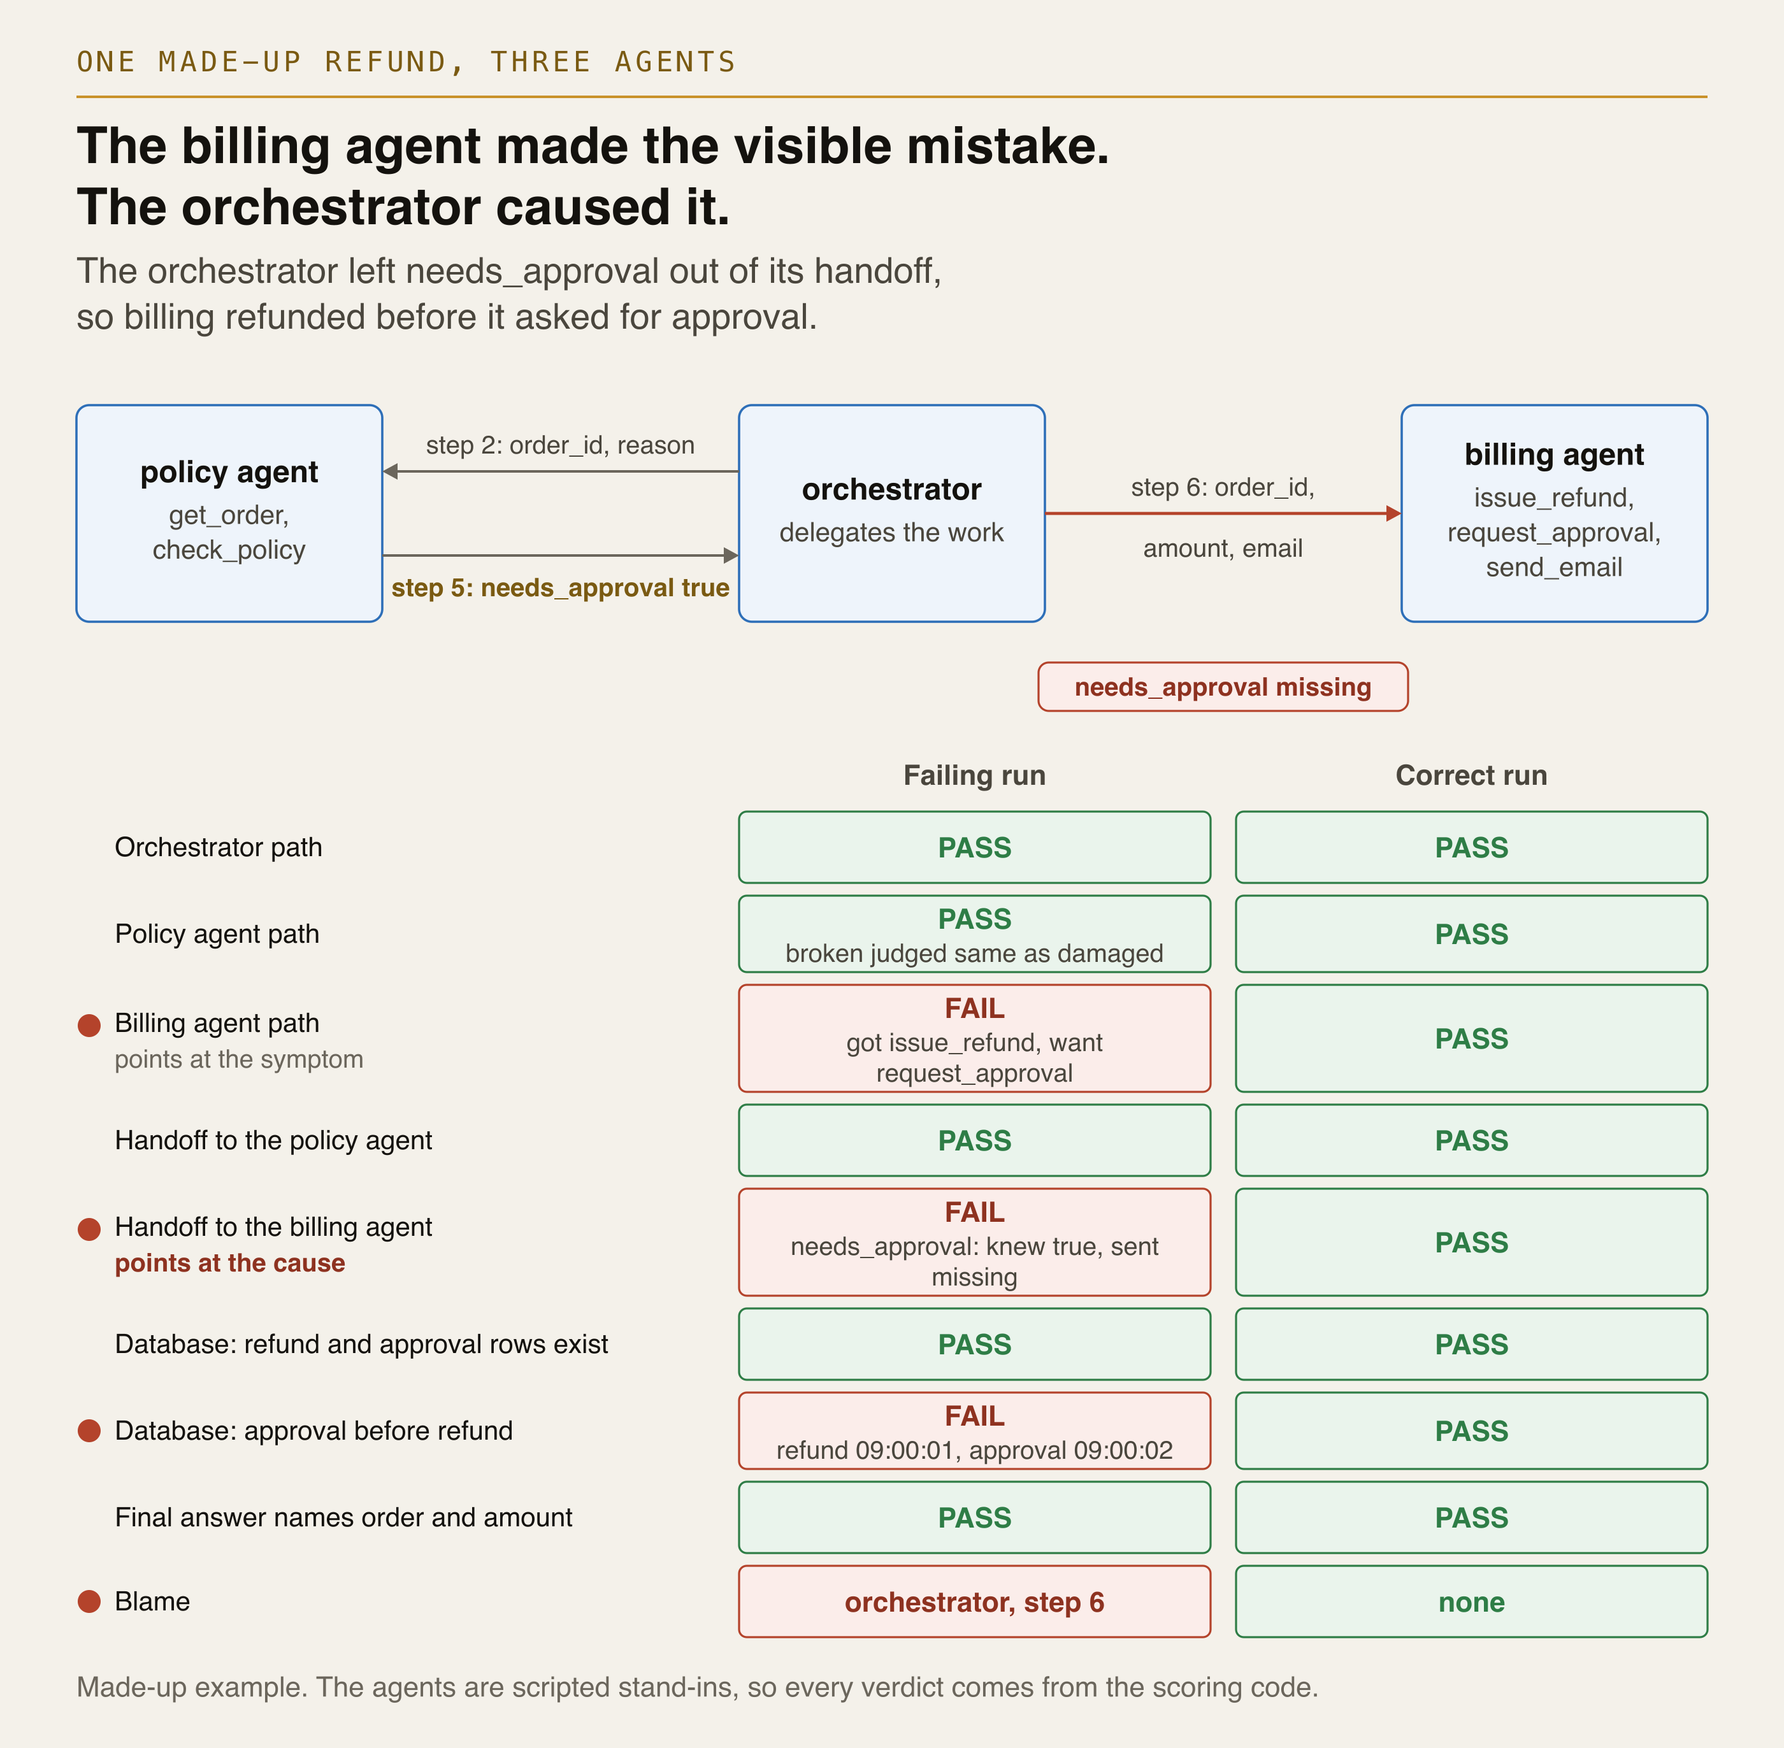
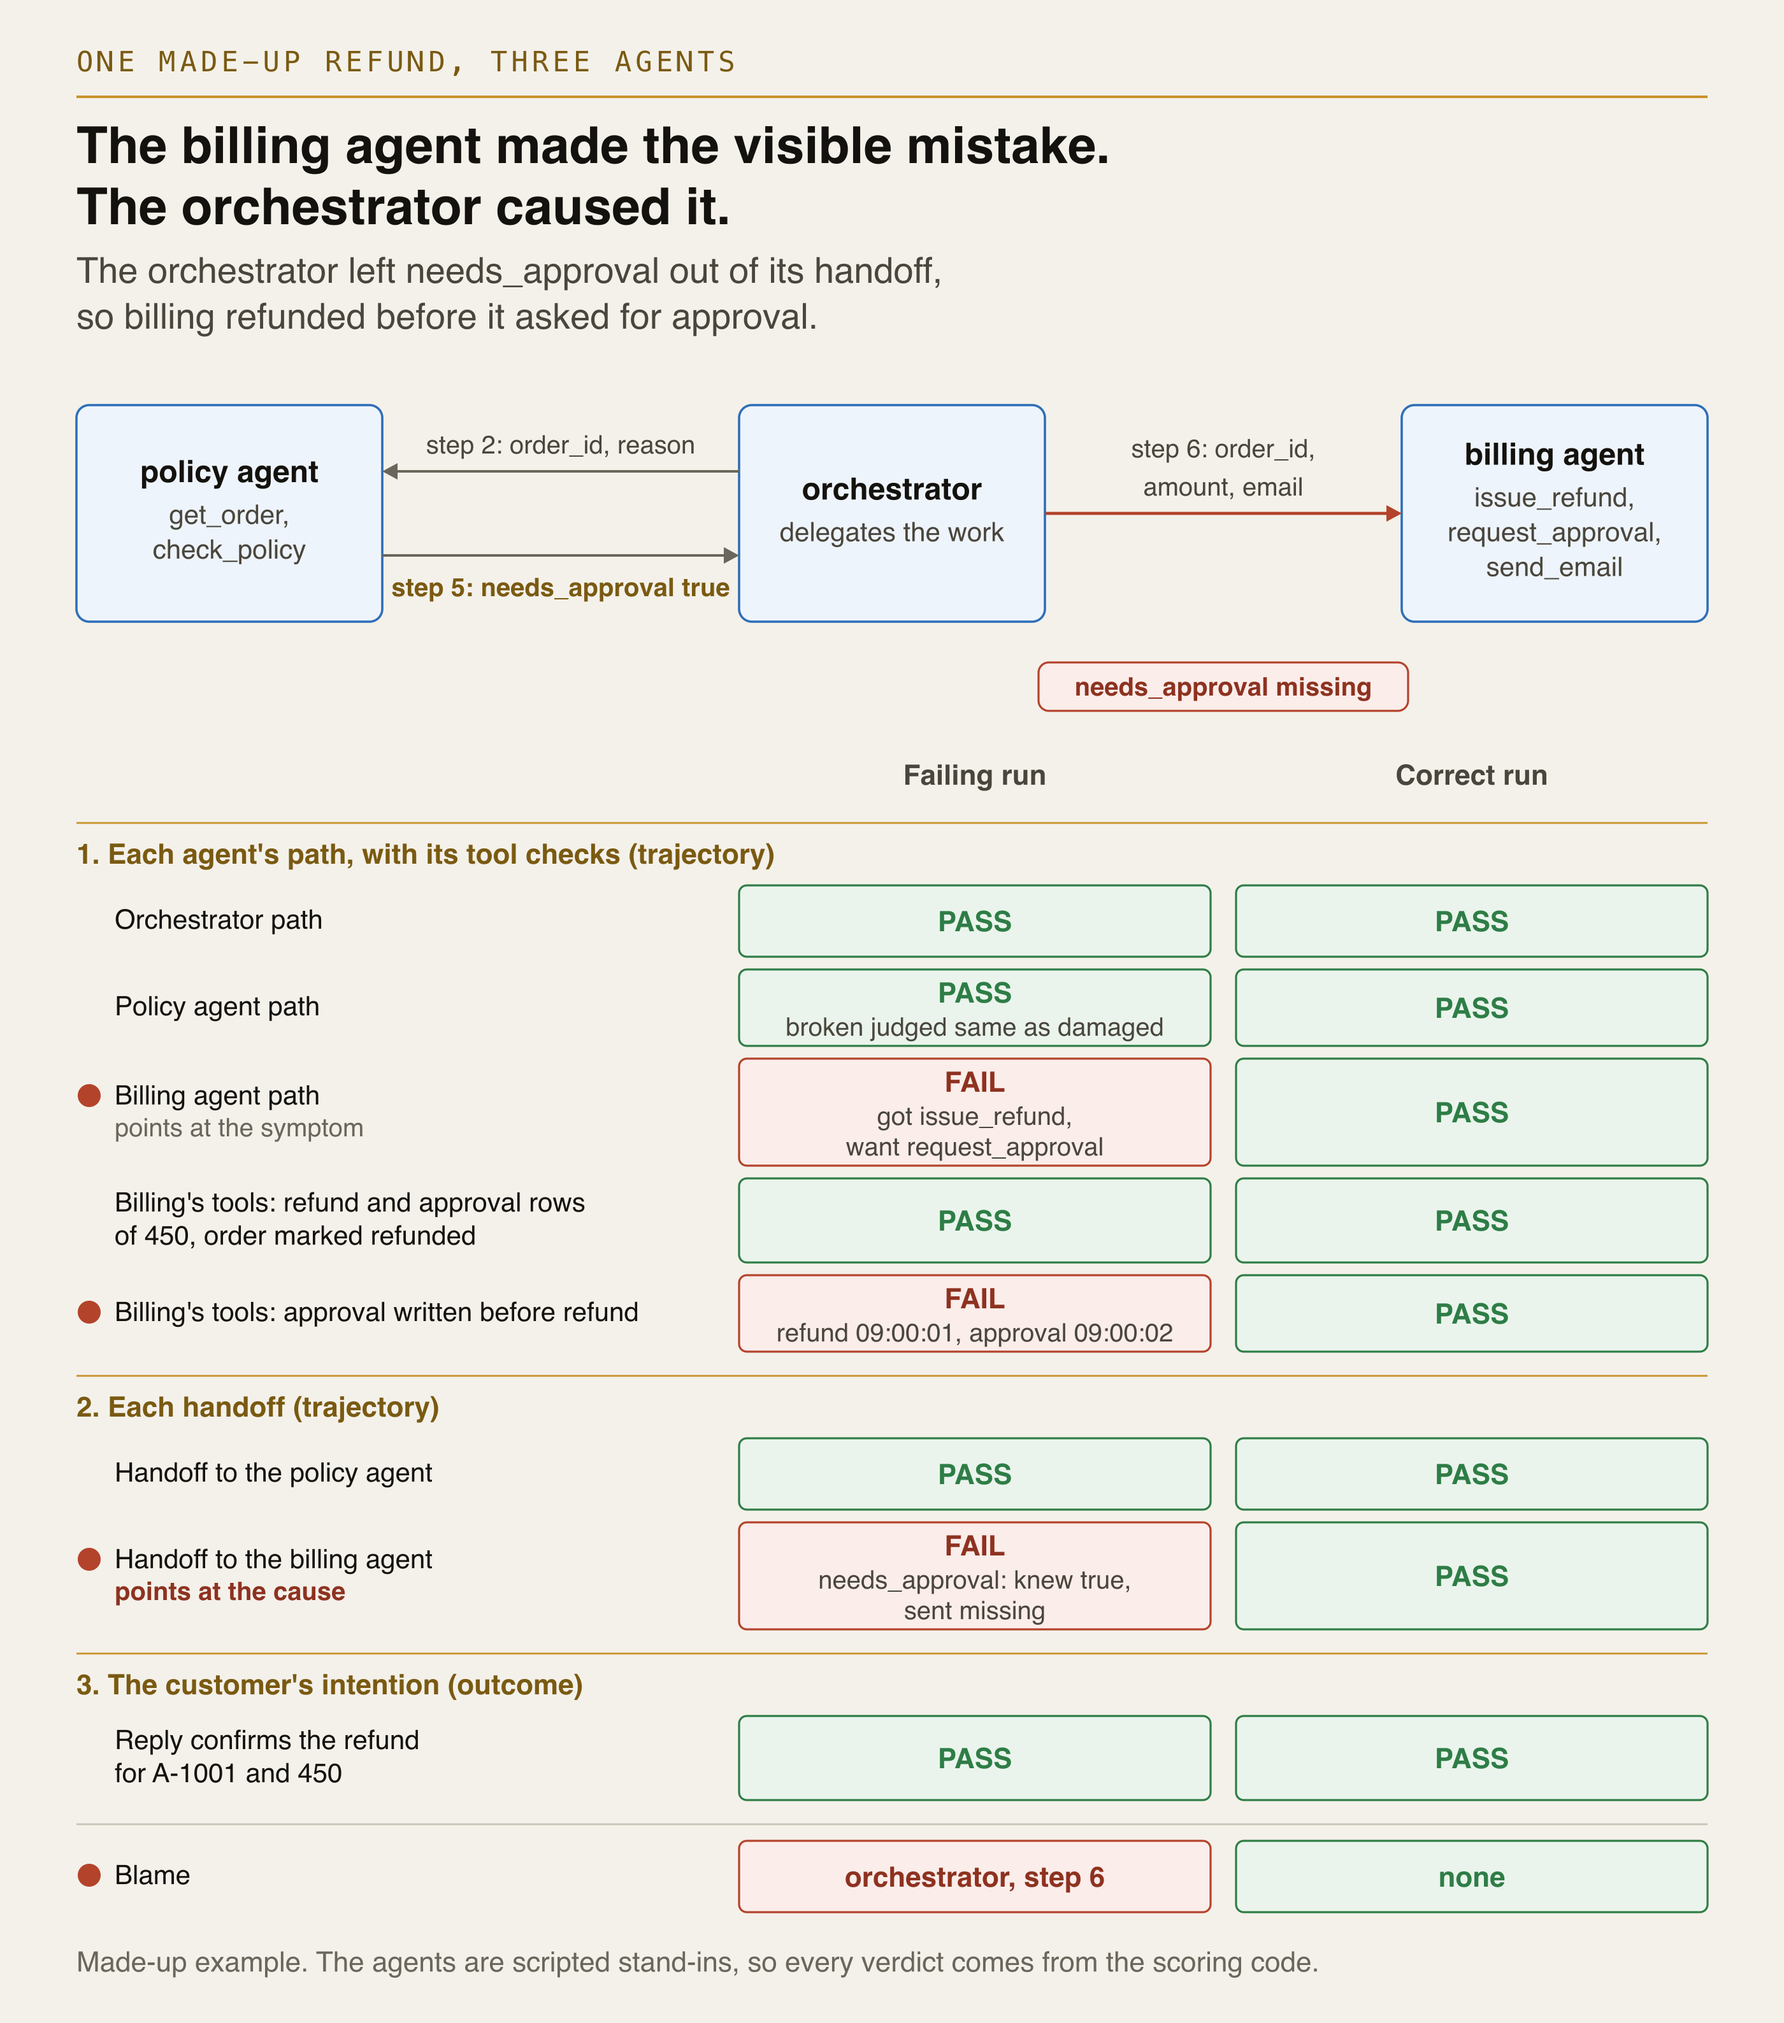
Score three grades: each agent's path, each handoff, the customer's intention (#2)
The harness now reports three grades in order. Grade 1 is each agent's
path, and billing's SQLite check now sits inside it as a tool check, since
that check only exists because billing's tools write rows. Grade 2 is each
handoff. Grade 3 is the customer's intention: the reply must confirm the
refund the customer asked for. The first two grade the trajectory and the
third grades the outcome from the customer's side.

system_passes now also requires grade 3. The eight repeated runs give the
same results (F P P P F F P P). Only printed labels and section order
changed in expected/run_demo.txt. The README, the architecture diagram and
the scored-run and pass-k figures follow the three grades, and the phrase
end state is gone from the prose.

diff --git a/run_demo.py b/run_demo.py
@@ -198,19 +198,20 @@ def score_run(title, request, handoff_keys, trace_file, **kw):
     print(f'final answer: "{answer}"')
 
     S.JUDGE_LOG.clear()
-    print("-- per-agent path (in-order, per-argument policy) --")
+    print("-- grade 1: each agent's path (in order, a rule per argument) --")
     path_checks(steps)
     for name, got, want, jok in sorted(set(S.JUDGE_LOG)):
         print(f"  judge (stub) on {name}: {got!r} vs {want!r} -> "
               f"{'same meaning' if jok else 'different'}")
-    print("-- handoffs (does each fact the next agent needs cross?) --")
-    handoff_checks(steps)
-    print("-- whole-system end state in SQLite --")
+    print("-- grade 1, billing's tools: what they wrote to SQLite --")
     for label, ok, detail in S.end_state(db, OID, AMOUNT):
         line(label, ok, detail)
-    print("-- final answer --")
-    ok, why = S.final_answer_check(answer, [OID, str(AMOUNT)])
-    line("names the order and amount", ok, why)
+    print("-- grade 2: each handoff"
+          " (does each fact the next agent needs cross?) --")
+    handoff_checks(steps)
+    print("-- grade 3: the customer's intention --")
+    ok, why = S.final_answer_check(answer_in_trace, [OID, str(AMOUNT)])
+    line("reply names order and amount", ok, why)
     print("-- failure attribution (walk the tree in time order) --")
     cause, symptom = print_blame(steps)
     return steps, cause, symptom
@@ -275,10 +276,14 @@ def traps():
 
 
 def system_passes(db, steps):
+    """True when a run passes all three grades: each agent's path with
+    billing's tool check, each handoff, and the customer's intention."""
     paths = all(S.in_order(REFS[a], c, S.stub_judge)[0]
                 for a, c in calls_by_agent(steps).items())
-    state = all(c[1] for c in S.end_state(db, OID, AMOUNT))
-    return paths and state and blame(steps)[0] is None
+    tools = all(c[1] for c in S.end_state(db, OID, AMOUNT))
+    intent = S.final_answer_check(final_answer_from(steps),
+                                  [OID, str(AMOUNT)])[0]
+    return paths and tools and intent and blame(steps)[0] is None
 
 
 def repeated_runs(n=8, seed=2026, p_bad=0.25):
@@ -294,8 +299,7 @@ def repeated_runs(n=8, seed=2026, p_bad=0.25):
         db, _, spans = A.run_system(A.REQUEST_B, keys, "conv_rep")
         results.append(system_passes(db, steps_from_spans(spans)))
     marks = " ".join("P" if r else "F" for r in results)
-    print("run results (P = every path, handoff, end-state check passes):"
-          f" {marks}")
+    print(f"run results (P = all three grades pass): {marks}")
     print(f"c = {sum(results)} passes out of n = {n}")
     for k in (1, 2, 4, 8):
         print(f"  k={k}:  pass^k = {pass_hat_k([results], k):.3f}"

diff --git a/scorers.py b/scorers.py
@@ -1,10 +1,11 @@
 """Score an agent's trajectory, the list of tool calls it made.
 
 The scorers are plain Python and need no model or network. The rule
-for each argument and the SQLite end-state check come unchanged from
-the single-agent harness. So does the in-order matcher, which avoids
-the bugs shown in traps.py. In this multi-agent harness, run_demo.py
-runs the in-order matcher once for each agent.
+for each argument and the check on what billing's tools wrote to
+SQLite come unchanged from the single-agent harness. So does the
+in-order matcher, which avoids the bugs shown in traps.py. In this
+multi-agent harness, run_demo.py runs the in-order matcher once for
+each agent.
 """
 import json
 
@@ -140,9 +141,10 @@ def precision_recall(reference, actual, judge):
 
 
 def end_state(db, order_id, amount):
-    """Check the rows the run left in SQLite.
+    """Check the rows billing's tools wrote to SQLite, and their order.
 
-    The check never reads what the agents said.
+    This is part of the tool check on billing's path, so it is specific
+    to this refund system. It never reads what the agents said.
     """
     q = lambda sql: db.execute(sql, (order_id,)).fetchall()
     refunds = q("SELECT amount, ts FROM refunds WHERE order_id = ?")
@@ -167,6 +169,11 @@ def end_state(db, order_id, amount):
 
 
 def final_answer_check(text, must_include):
+    """Check the customer's intention on the reply.
+
+    The reply passes when it names every item in must_include, here
+    the order ID and the refund amount.
+    """
     missing = [m for m in must_include if m not in text]
     return not missing, (f"missing {missing}" if missing
                          else f"mentions {', '.join(must_include)}")

diff --git a/README.md b/README.md
@@ -3,7 +3,8 @@
 [![reproduce](https://github.com/netsatsawat/multi-agent-trajectory-evals/actions/workflows/ci.yml/badge.svg)](https://github.com/netsatsawat/multi-agent-trajectory-evals/actions/workflows/ci.yml)
 
 A test that reads only the final reply can pass a multi-agent run where the money goes out
-before anyone approves it. This repo checks every tool call and every message in the run, then
+before anyone approves it. This repo grades each run on each agent's path with its tool calls,
+on each handoff between agents, and on whether the customer got what they asked for. Then it
 names the agent that caused the failure.
 
 ![A three-agent refund run. The orchestrator leaves the approval flag out of its message to billing. Billing refunds one second before it asks for approval, but a test on the final reply still passes](assets/hero-handoff.gif)
@@ -58,25 +59,25 @@ list the trajectory, the path the agents took. The failing run has 11 steps. At 
 policy agent reports `needs_approval: true` to the orchestrator, at step 6 the orchestrator
 hands off to billing, and billing refunds at step 7 and asks for approval at step 8.
 
-Each run gets four checks. The first two grade the trajectory, and the last two grade the
-outcome.
+Each run gets three grades. The first two check the trajectory, and the third checks the
+outcome from the customer's side, whether the customer got what they asked for.
 
-1. The path check compares each agent's own calls, in order, with a short reference list for
-   that agent in `REFS` in `run_demo.py`. For the orchestrator, the calls are its handoffs, and
-   the check looks only at which agent gets each one. Calls to tools outside the reference list
-   can come in between. Each argument has its own rule. IDs, amounts and email addresses must
-   match exactly, and a free-text reason goes to a judge, which decides whether two texts mean
-   the same thing. Here the judge is `stub_judge` in `scorers.py`, a small table of synonyms
-   that treats "broken" as the same as "damaged", so the demo needs no model.
-2. The handoff check takes each handoff and the facts the receiving agent needs, listed in
-   `NEEDS` in `attribution.py`. It checks that the handoff carries each fact with the value the
-   sender knew by then. A sender knows a fact once the fact reaches it in a message or in the
-   result of its own tool call.
-3. The final-answer check looks for the right order ID and amount in the reply.
-4. The database check reads what the run wrote to the SQLite database, including the order of
-   the writes. It expects one refund row and one approval row for the right amount, the
-   approval written before the refund, and the order marked as refunded. `end_state` in
-   `scorers.py` runs this check, so the figures and the file table call it the end-state check.
+1. Each agent's path. The path check compares each agent's own calls, in order, with a short
+   reference list for that agent in `REFS` in `run_demo.py`. For the orchestrator, the calls are
+   its handoffs, and the check looks only at which agent gets each one. Calls to tools outside
+   the reference list can come in between. Each argument has its own rule. IDs, amounts and
+   email addresses must match exactly, and a free-text reason goes to a judge, which decides
+   whether two texts mean the same thing. Here the judge is `stub_judge` in `scorers.py`, a
+   small table of synonyms that treats "broken" as the same as "damaged", so the demo needs no
+   model. This grade also checks what each tool did. In this refund system, billing's tools
+   write to SQLite, and `end_state` in `scorers.py` expects one approval row, then one refund
+   row, both of 450, and the order marked refunded.
+2. Each handoff. The handoff check takes each handoff and the facts the receiving agent needs,
+   listed in `NEEDS` in `attribution.py`. It checks that the handoff carries each fact with the
+   value the sender knew by then. A sender knows a fact once the fact reaches it in a message
+   or in the result of its own tool call.
+3. The customer's intention. `final_answer_check` in `scorers.py` reads the reply, the last
+   step, and passes it when it names the order, A-1001, and the refund amount, 450.
 
 To find the agent that caused a failure, `blame` in `attribution.py` goes through the steps in
 time order. A handoff is wrong when it fails the handoff check. A tool call is wrong when it
@@ -85,10 +86,11 @@ breaks a rule in `money_rule`, and in this repo the only rule is approval before
 call or sent that message. It also reports the first tool call that broke a rule, and calls it
 a symptom when it comes after the cause.
 
-![The failing run and the correct run scored by every check. In the failing run, billing's path, the handoff to billing and the order of the database writes fail, the final answer passes, and blame goes to the orchestrator at step 6. In the correct run every check passes](assets/scored-run.png)
+![The failing run and the correct run scored by the three grades. In the failing run, billing's path, its approval-before-refund tool check and the handoff to billing fail, the customer's intention passes, and blame goes to the orchestrator at step 6. In the correct run every check passes](assets/scored-run.png)
 
-In the failing run, the handoff check fails at step 6, one step before billing's early refund,
-so `blame` names the orchestrator.
+In the failing run, the customer's intention is met, but billing's path and the handoff to
+billing fail. The handoff fails at step 6, one step before billing's early refund, so `blame`
+names the orchestrator.
 
 ![The handoff check going row by row through the four facts billing needs. Order ID, amount and email arrive unchanged, and needs_approval is missing](assets/handoff-check.gif)
 
@@ -160,8 +162,7 @@ list, and it stops at the first call whose tool is in the reference list but out
 
 The last block runs the refund case eight times. In each run a flaky orchestrator drops the
 flag with a one-in-four chance, and a fixed random seed gives the same eight results every
-time. A run passes when every path, handoff and database check passes. Five of the eight runs
-pass.
+time. A run counts as a pass only when it passes all three grades. Five of the eight runs pass.
 
 Pass^k is the chance that all k runs pass when you pick k of those eight runs at random.
 `passk.py` works it out with tau-bench's formula, C(c, k) / C(n, k). Here n = 8 is the number
@@ -210,10 +211,11 @@ still run alone and match the committed copies in `excerpts/`.
    `agents.py` does this with a single `span.add_event` call.
 4. Write down what your system must do, in these tables and functions:
    - a short reference list for each agent, like `REFS` in `run_demo.py`
-   - the facts each receiving agent needs, in `NEEDS` in `attribution.py`
    - a rule for each tool argument, set to compare, judge or ignore, in `ARG_POLICY` in
      `scorers.py`. An argument you do not list there must match exactly.
-   - your database rules, in `end_state` in `scorers.py`
+   - what each tool must change, in `end_state` in `scorers.py`
+   - the facts each receiving agent needs, in `NEEDS` in `attribution.py`
+   - what the reply must confirm, in `score_run` and `system_passes` in `run_demo.py`
    - the rules `blame` checks on each tool call, in `money_rule` in `attribution.py`
 
    The `money_rule` in this repo looks only at `request_approval` and `issue_refund` calls.
@@ -250,7 +252,7 @@ names, you can count how often each kind comes back.
 | `agents.py` | The three scripted agents, their tools, the shared SQLite database, the fake clock, and the code that records each run as spans |
 | `tracing.py` | OpenTelemetry setup, with spans kept in memory and saved to `traces/` |
 | `attribution.py` | `steps_from_spans`, `handoff_gaps`, `money_rule` and `blame`, printed in the article word for word |
-| `scorers.py` | In-order path matching with a rule per argument, the end-state checks, the final-answer check and the stub judge |
+| `scorers.py` | In-order path matching with a rule per argument, `end_state` for billing's rows, the check on the customer's intention, and the stub judge |
 | `traps.py` | The two short matchers that pass bad runs |
 | `passk.py` | Pass^k and pass@k, with tau-bench's formulas |
 | `run_demo.py` | Runs everything and prints every verdict |
@@ -267,6 +269,10 @@ run.
 The agents are scripted stand-ins that take the same steps on every run, so the demo cannot
 tell you how often a real model fails these checks. Run the checks on your own system to find
 out.
+
+The check on the customer's intention only looks for the order ID and the amount in the reply. A
+reply that names both but turns the refund down still passes, so in your own tests, use a judge
+for this check.
 
 OpenTelemetry still marks the GenAI semantic conventions as Development, its label for parts
 that can change.
